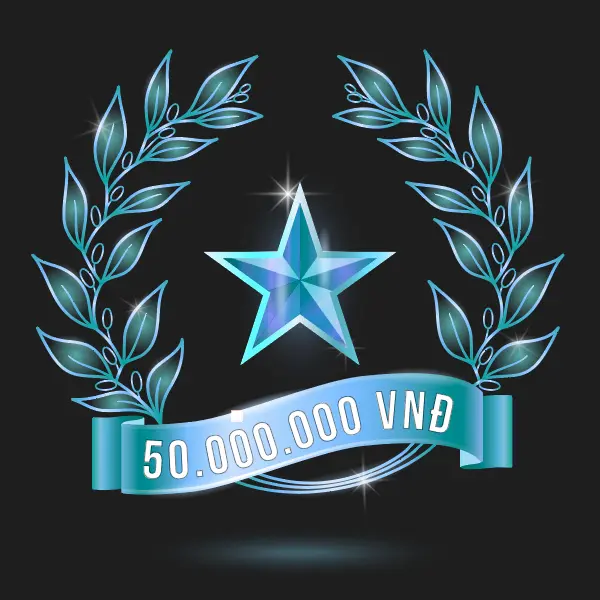
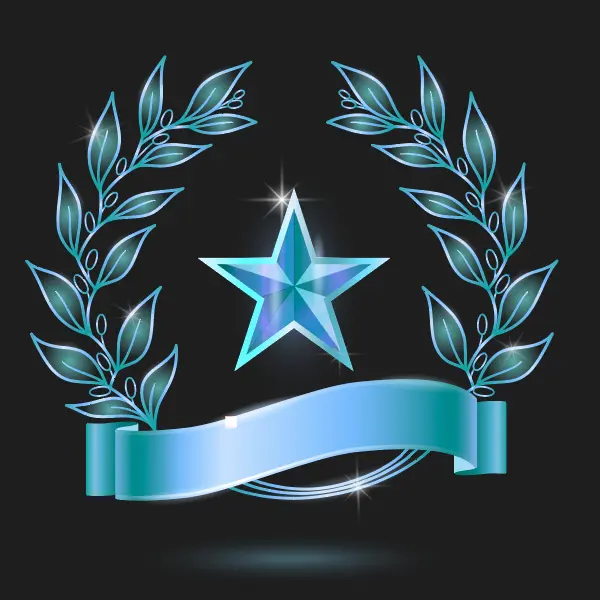
update new data

Changed region(s): [[0.03, 0.09, 0.96, 0.84], [0.45, 0.9, 0.54, 0.96], [0.27, 0.45, 0.3, 0.48]]

diff --git a/server/config.js b/server/config.js
@@ -16,36 +16,36 @@ const prizes = [
   {
     type: 1,
     count: 3,
-    text: "Giải đặc biệt",
-    title: "50.000.000",
+    text: "Giải",
+    title: "đặc biệt",
     img: "../img/dac biet.webp"
   },
   {
     type: 2,
     count: 5,
-    text: "Giải nhất",
-    title: "40.000.000",
+    text: "Giải",
+    title: "nhất",
     img: "../img/nhat.webp"
   },
   {
     type: 3,
     count: 5,
-    text: "Giải nhì",
-    title: "30.000.000",
+    text: "Giải",
+    title: "nhì",
     img: "../img/nhi.webp"
   },
   {
     type: 4,
     count: 10,
-    text: "Giải ba",
-    title: "20.000.000",
+    text: "Giải",
+    title: "ba",
     img: "../img/ba.webp"
   },
   {
     type: 5,
     count: 30,
-    text: "Giải khuyến khích",
-    title: "10.000.000",
+    text: "Giải",
+    title: "khuyến khích",
     img: "../img/kk.webp"
   }
 ];
